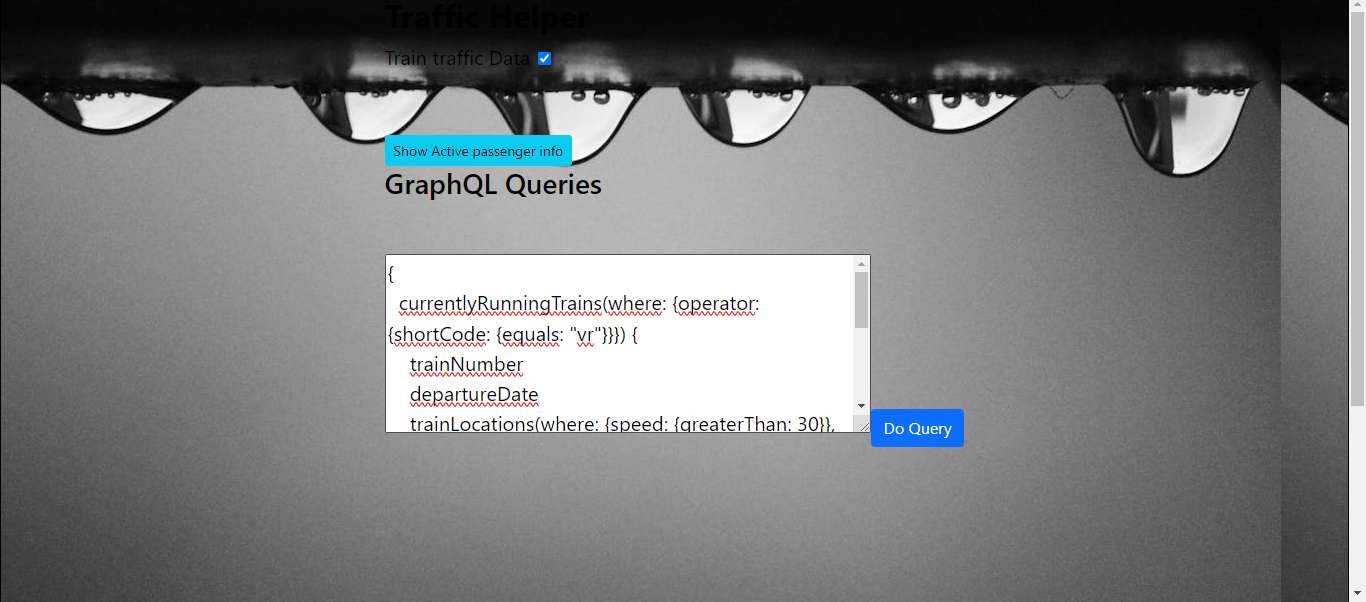
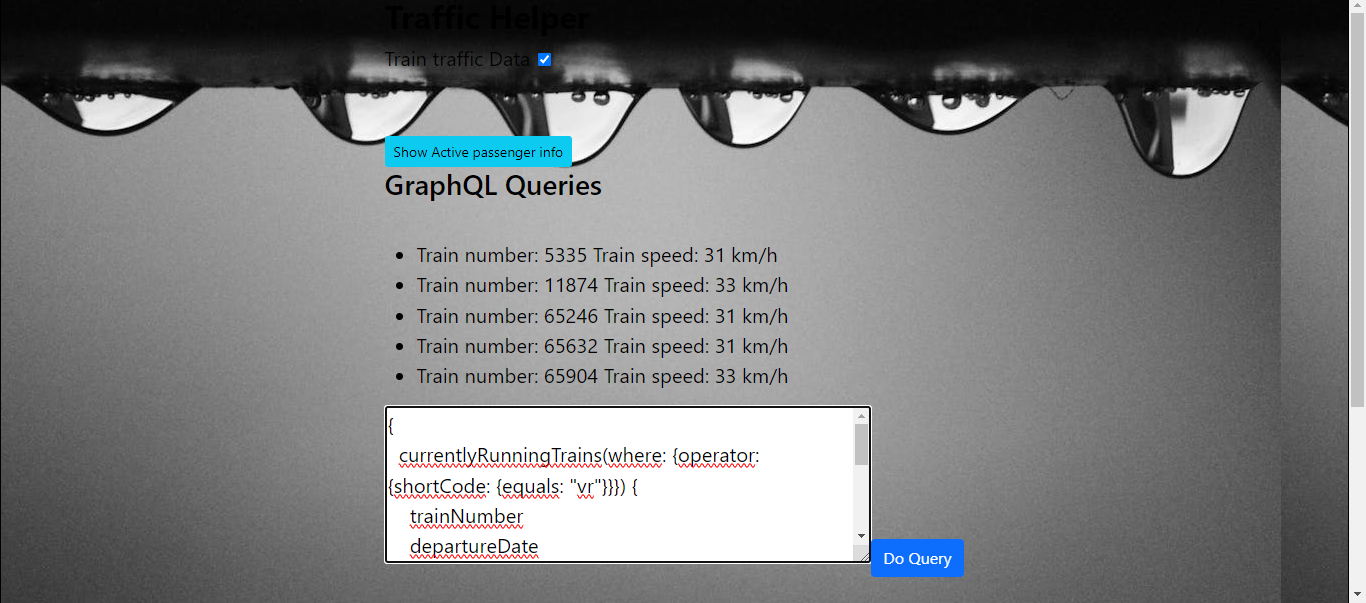
graphQL response to html added.

diff --git a/src/pages/trainGraphql.js b/src/pages/trainGraphql.js
@@ -1,6 +1,6 @@
 import { useState } from "react";
 import { useMutation, useQuery } from "react-query";
-import { ApolloClient, InMemoryCache, gql } from '@apollo/client'
+import { ApolloClient, InMemoryCache, gql,useLazyQuery } from '@apollo/client'
 
 
 const client = new ApolloClient({
@@ -16,20 +16,22 @@ function TrainGraphQL() {
     const [queryText,setQueryText]=useState('')
     const [dataVar,setDataVar]=useState([''])
 
-    
       function DoQuery() {
      
         const query = gql(queryText)
-    
-        
         client.query({ query })
         .then((response) => {
         console.log(response.data)
-        const li = document.createElement("li")
+        for (var i=0;i<5;i++)
+        {
+            const li = document.createElement("li")
                
-        //kentässä näytetää json tulosjoukon roadstationid ja sensorvalue-
-        li.innerText= response.data.trainNumber
-        document.getElementById("list").appendChild(li)
+            //kentässä näytetää json tulosjoukon roadstationid ja sensorvalue-
+            li.innerText= "Train number: "+ response.data.currentlyRunningTrains[i].trainNumber+' Train speed: '+response.data.currentlyRunningTrains[i].trainLocations[0].speed+" km/h"
+            document.getElementById("list").appendChild(li)
+
+        }
+       
   })
   
 
@@ -46,6 +48,7 @@ function TrainGraphQL() {
             </div>
             <textarea rows={5} cols={50} onChange={e=>setQueryText(e.target.value)}></textarea>
             <button class='btn btn-primary' onClick={DoQuery}>Do Query</button>
+           
           
 
         </div>

diff --git a/README.md b/README.md
@@ -44,10 +44,9 @@ The div element where the traffic announcements are displayed has a max-width va
 
 ![alt text](src/images/roadAnnounc.png)
 
-Example image where a user writes a query to Digitraffic's rail traffic GrapQL API
+example image where a user writes a query to Digitraffic's rail traffic GrapQL API. The survey searches for the first 5 trains with a speed of more than 30 km/h
 
 ![alt text](src/images/graphqlQuery.png)
-
 
 
 
